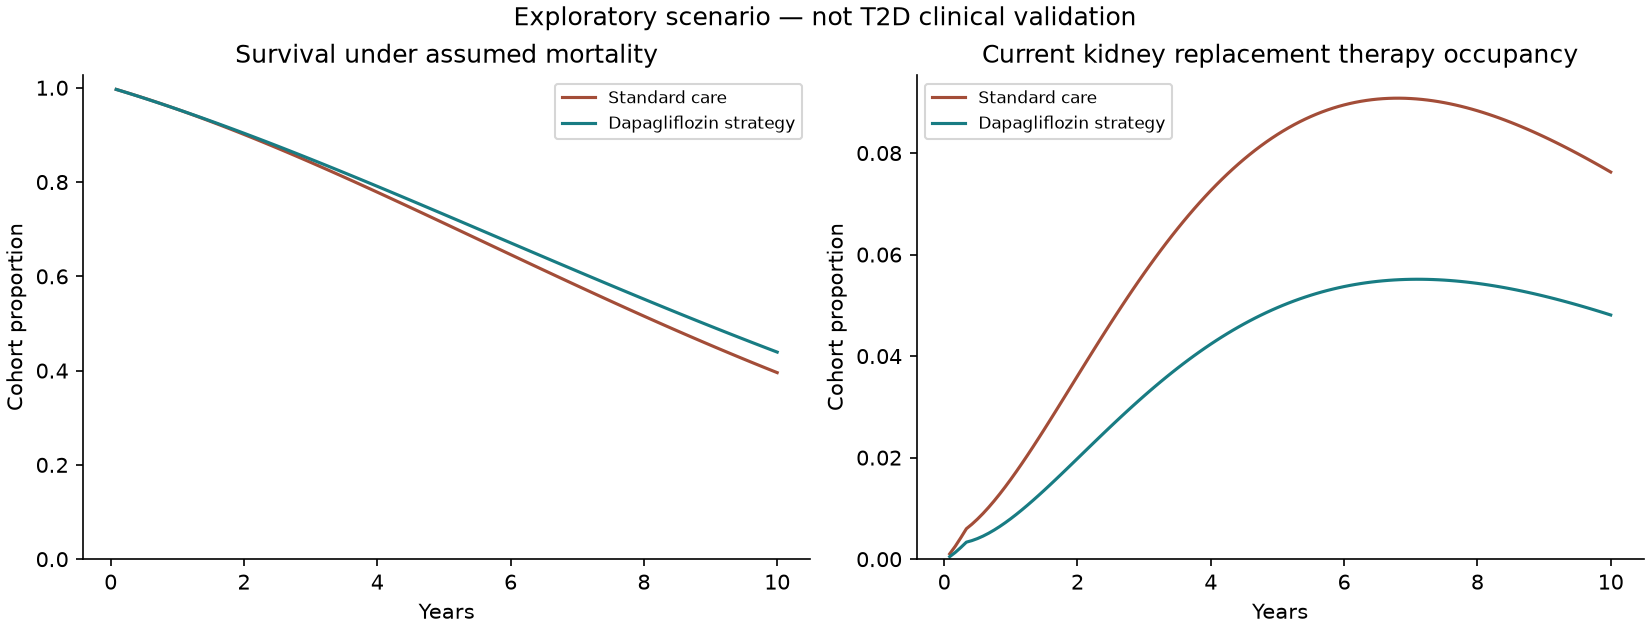
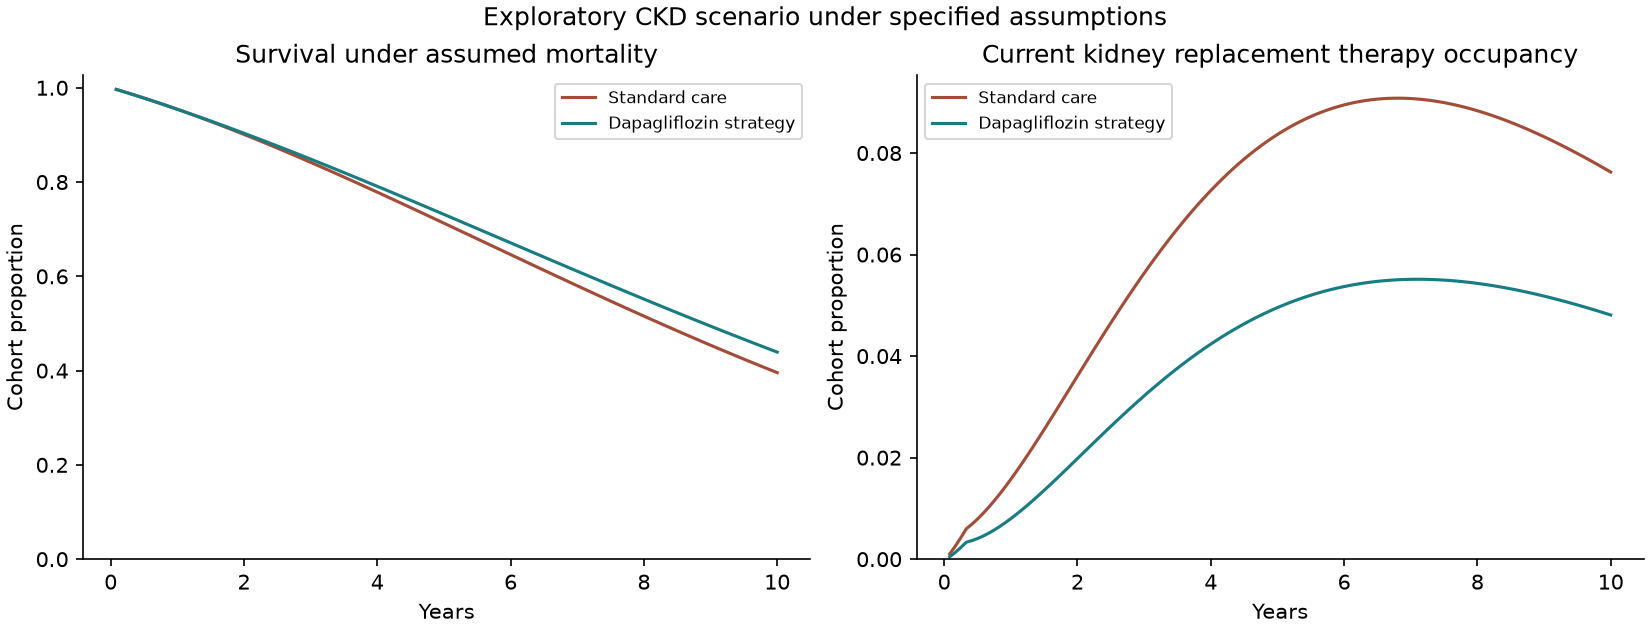
Present model scope in concise English and preserve research assumptions

Changed region(s): [[0.2782, 0.0, 0.7109, 0.0603]]

diff --git a/model/reporting.py b/model/reporting.py
@@ -15,7 +15,7 @@ def plots(out,r,tr,bia,sens,draws,ceac,demo,summary):
         ax[1].plot(f.month/12,f.Dialysis+f.Transplant,label=label,color=color)
     for a in ax:a.set_xlabel('Years');a.set_ylabel('Cohort proportion');a.set_ylim(bottom=0);a.legend(fontsize=8)
     ax[0].set_title('Survival under assumed mortality');ax[1].set_title('Current kidney replacement therapy occupancy')
-    fig.suptitle('Exploratory scenario — not T2D clinical validation',fontsize=12)
+    fig.suptitle('Exploratory CKD scenario under specified assumptions',fontsize=12)
     fig.savefig(out/'economic-trajectories.png');plt.close(fig)
     b=pd.DataFrame(bia);fig,ax=plt.subplots(figsize=(8,4.4),layout='constrained');x=np.arange(3)
     ax.bar(x-.22,b.incremental_drug/1e6,.22,label='Added drug cost',color='#298a91')
@@ -52,7 +52,7 @@ def write_reports(out,cfg,r,bia,sens,demo,summary,ceac,audit):
     rows='\n'.join(f"| {x['year']} | {money(x['incremental_drug'])} | {money(x['incremental_medical'])} | {money(x['incremental_total'])} | ${x['pmpm']:.3f} |" for x in bia)
     en=f'''# Dapagliflozin in CKD economic and causal methods project
 
-**Completed computational project; exploratory economic scenarios and synthetic methods validation. Not a validated T2D or Medicare decision model.** Evidence review 11 October 2026. The reference horizon is 10 years; age-100 extrapolation is a sensitivity scenario only.
+**Exploratory cost-effectiveness and budget-impact scenarios with a separate synthetic causal-methods study.** Evidence review 11 October 2026. The reference horizon is 10 years; age-100 extrapolation is a sensitivity scenario only.
 
 ## Decision and economic output
 
@@ -60,7 +60,7 @@ Dapagliflozin 10 mg daily plus standard care versus standard care without an SGL
 
 Reference incremental cost: {money(r['delta_cost'])}; incremental QALYs: {r['delta_qaly']:.6f}; classification: {r['classification']}; ICER: {ic}; incremental NMB at $100,000/QALY: {money(r['nmb_at_100k'])}. Conditional daily drug-price threshold: ${r['daily_price_threshold_at_100k']:.4f}.
 
-These figures must be read with the scenario register: mixed-population renal matrices were not calibrated to a T2D-specific endpoint; stage mortality and age extrapolation are assumptions, utilities use a transferred UK tariff, and spending uses adjusted US proxies. Full healthcare-sector and actual insurer net costs are not estimated.
+These figures must be read with the scenario register: renal matrices are transferred from a mixed diabetes-status population; stage mortality and age extrapolation are assumptions, utilities use a transferred UK tariff, and spending uses adjusted US proxies. Full healthcare-sector and actual insurer net costs are not estimated.
 
 ![Modelled survival and kidney replacement therapy](economic-trajectories.png)
 
@@ -86,12 +86,12 @@ Bootstrap samples with complete censoring in a treatment-stratum cell are also u
 
 ## Validation and limits
 
-Independent discounted cashflow recomputation agrees within1e-6USD; matrix mass conservation, absorbing death, identity scenarios, analytic survival, no-treatment budget, open-population accounting and SQL exclusions are tested. These are computational checks, not clinical validation. No calibration to the DAPA-CKD composite is claimed because stage aggregates cannot identify its sustained decline and adjudicated death components. The lifetime scenario is not evidence of valid extrapolation.
+Independent discounted cashflow recomputation agrees within1e-6USD; matrix mass conservation, absorbing death, identity scenarios, analytic survival, no-treatment budget, open-population accounting and SQL exclusions are tested. These checks assess computational implementation and accounting. Stage aggregates cannot identify the sustained decline and adjudicated death components of the DAPA-CKD composite. The age-100 scenario depends on the stated extrapolation assumptions.
 
 Public source tables are preserved separately from normalization and assumptions. PSA samples selected subjective distributions; its acceptance curve is conditional on those choices, with no claim to a recovered trial joint distribution. No separate HF benefit, transplant incident cost, or observed adverse-event effect is claimed. Source totals include mixed medical/pharmacy components; an assumed20% pharmacy subtraction and3% annual2023–2026 conversion create background medical proxies. KRT transplant costs represent prevalent averages; dialysis cost is an explicit scenario. Drug MFP is not net payer liability.
 
 ![Uncertainty under selected parameter distributions](uncertainty.png)
 
-See [methods](../METHODS.md), [sources](../SOURCES.md),[parameter register](../parameters/scenario.json),[validation](validation.json) and[run manifest](run-manifest.json). Independent exploratory analysis; not endorsed by the cited agencies or manufacturers.
+See [methods](../METHODS.md), [sources](../SOURCES.md),[parameter register](../parameters/scenario.json),[validation](validation.json) and[run manifest](run-manifest.json).
 '''
     (out/'REPORT.md').write_text(en)

diff --git a/run.py b/run.py
@@ -52,9 +52,9 @@ def main():
         err=abs(independent-r[arm]['cost']);assert err<1e-6
         audit[arm+'_cost_reconciliation_error']=err
     audit.update({'test_suite_passed':True,'sql_cohort_reconstructed':True,'synthetic_estimates_used_as_clinical_inputs':False,
-       'clinical_validation':'NOT established: mixed-population matrices, assumed mortality/transport and cost allocations.',
-       'trial_composite_validation':'Not identified from stage-only aggregates; no counterfeit composite HR calibration.',
-       'lifetime':'Exploratory sensitivity capped at age100; not a validated lifetime forecast.',
+       'clinical_validation':'Exploratory scenario using mixed-population matrices, assumed mortality, evidence transfer and cost allocations.',
+       'trial_composite_validation':'Stage aggregates do not identify sustained-decline or adjudicated-death components of the trial composite.',
+       'lifetime':'Exploratory sensitivity capped at age100, conditional on extrapolated transition and mortality assumptions.',
        'mode':'quick' if args.quick else 'full','psa_draws':len(draws),'monte_carlo_replicates_per_scenario':5 if args.quick else 200})
     reference=ROOT/'parameters/computational-reference.json'
     if reference.exists():

diff --git a/scripts/extract_ckd_transitions.py b/scripts/extract_ckd_transitions.py
@@ -102,7 +102,7 @@ def audit_matrices(matrices):
                                "from_state": state, "sum_as_printed": str(total),
                                "deviation_from_one": str(deviation)})
     return {
-        "status": "source_transcription_checked_not_clinical_model_validation",
+        "status": "source_transcription_integrity_checked",
         "matrices": len(matrices), "probability_cells": 256, "se_cells": 256,
         "rows": len(row_checks),
         "nonunit_rows_as_printed": sum(Decimal(r["deviation_from_one"]) != 0 for r in row_checks),
@@ -116,7 +116,7 @@ def audit_matrices(matrices):
 def extract(raw):
     matrices = extract_matrices(tables_from_docx(raw))
     evidence = {
-        "use_status": "source_reference_only_not_approved_for_target_CEA",
+        "use_status": "published_source_reference",
         "citation": "McEwan et al. Clinical Kidney Journal 2024;17(2):sfae025. Supplement Tables S3 and S4.",
         "article_url": PAPER_URL, "download_url": SOURCE_URL,
         "source_filename": SOURCE_FILE, "source_sha256": SOURCE_SHA256,

diff --git a/tests/test_transitions.py b/tests/test_transitions.py
@@ -1,4 +1,4 @@
-"""Input-integrity tests; not clinical/economic model validation."""
+"""Input-integrity tests for the published transition reference."""
 import copy
 import importlib.util
 import json
@@ -19,7 +19,7 @@ class TransitionIntegrityTests(unittest.TestCase):
     def test_reference_audit_and_scope(self):
         self.assertEqual(module.audit_matrices(self.matrices), json.loads((ROOT / "results/transition-input-audit.json").read_text()))
         self.assertFalse(self.data["mortality_included"])
-        self.assertEqual(self.data["use_status"], "source_reference_only_not_approved_for_target_CEA")
+        self.assertEqual(self.data["use_status"], "published_source_reference")
 
     def test_rounding_differences_are_preserved(self):
         before = copy.deepcopy(self.matrices)

diff --git a/model/claims.py b/model/claims.py
@@ -109,7 +109,7 @@ def simulate_methods(repetitions=200,n=2500,bootstrap=100,seed=20261011):
     return records,summaries
 
 def make_database(path,df):
-    """Flat toy code sets and labs are explicit; not validated clinical phenotypes."""
+    """Explicit toy code sets and linked labs for synthetic method evaluation."""
     conn=sqlite3.connect(path)
     for name in ['enrollment','diagnoses','labs','fills','events']:
         conn.execute(f'DROP TABLE IF EXISTS {name}')

diff --git a/METHODS.md b/METHODS.md
@@ -2,7 +2,7 @@
 
 ## Scope and status
 
-A completed computational scenario analysis of dapagliflozin 10mg daily plus standard care versus standard care without an SGLT2 inhibitor. Reference horizon 10 years; lifetime to age 100 is an exploratory sensitivity, not a clinically validated forecast. The hypothetical target is T2D with albuminuric CKD, eGFR25–75 and UACR200–5000, no baseline KRT. Stage-only public inputs do not preserve individual lab trajectories or validate transport to this population. CKD with T2D is not automatically proven diabetic nephropathy.
+A completed computational scenario analysis of dapagliflozin 10mg daily plus standard care versus standard care without an SGLT2 inhibitor. Reference horizon 10 years; lifetime to age 100 is an exploratory sensitivity, conditional on the assumed mortality and renal progression beyond the observed evidence. The hypothetical target is T2D with albuminuric CKD, eGFR25–75 and UACR200–5000, no baseline KRT. Stage-only public inputs do not preserve individual lab trajectories or validate transport to this population. CKD with T2D is not automatically proven diabetic nephropathy.
 
 The economic contrast does not imply withholding SGLT2 inhibitors is optimal contemporary care. The synthetic active-comparator module has a different estimand and supplies no clinical treatment effects to the economic model.
 
@@ -10,7 +10,7 @@ The economic contrast does not imply withholding SGLT2 inhibitors is optimal con
 
 Original CMS price rows and CKJ supplement S3/S4 probabilities/SEs remain unchanged in their evidence JSON files. `scenario.json` defines every operational setting and explicitly marks mortality, initial mix, inflation, cost allocation, eligibility, uptake and transport assumptions. [Sources](SOURCES.md) contains sources and applicability decisions.
 
-The reference economic result is conditional, not an approved clinical base case. Its restricted cost perspective includes a constructed background medical-spending proxy and incremental drug cost, omitting common background pharmacy costs; it is neither full US healthcare-sector cost nor actual Medicare Advantage net liability. No simulated individual-level information is taken from real patients.
+The reference economic result is conditional on the specified scenario inputs. Its restricted cost perspective includes a constructed background medical-spending proxy and incremental drug cost, omitting common background pharmacy costs; it is neither full US healthcare-sector cost nor actual Medicare Advantage net liability. No simulated individual-level information is taken from real patients.
 
 ## Monthly economic state model
 
@@ -37,7 +37,7 @@ A common utility shift and mortality/cost multipliers are scenario settings. No 
 
 Outputs: discounted costs, life-years, QALYs, incremental costs/QALYs, ICER when appropriate, dominance classification, and net monetary benefit `WTP*delta_QALY-delta_cost`. The 100,000 USD/QALY benchmark is illustrative. The drug-price threshold solves NMB=0 with exposure and clinical transitions held fixed. Small/zero or negative QALY increments do not produce a misleading headline ratio.
 
-Thirty-two deterministic settings include 3/5/10 year and age 100 horizons, discount 0/5%, price, mortality, medical cost, inflation, utility, source-effect retention 0/50/100%, slow renal movements,30 month effect cessation, treatment cessation, additional dropout, early phase boundary, rounding and age/stage composition. Stage composition scenarios are not validated subgroup treatment effects.
+Thirty-two deterministic settings include 3/5/10 year and age 100 horizons, discount 0/5%, price, mortality, medical cost, inflation, utility, source-effect retention 0/50/100%, slow renal movements,30 month effect cessation, treatment cessation, additional dropout, early phase boundary, rounding and age/stage composition. Stage-composition scenarios vary the starting cohort while retaining the specified treatment-effect assumptions.
 
 The 1,000-draw scenario PSA uses seed 20261011: shared lognormal cost multiplier CV 20%, shared lognormal mortality multiplier CV 30% (means 1), a common normal utility shift SD 0.03 clipped to 0–1, drug price Uniform 0.5–1.5 times reference, and retention Uniform 0–1 of the published arm-matrix contrast. Conditional on other inputs these draws are independent; shared shifts impose perfect within-domain correlation across stages. These are chosen uncertainty distributions, not empirical posteriors. Source matrices remain fixed; marginal rounded SEs cannot recover their joint covariance. The acceptability curve reports the fraction of these draws with positive NMB and binomial Monte Carlo SE.
 
@@ -45,7 +45,7 @@ The 1,000-draw scenario PSA uses seed 20261011: shared lognormal cost multiplier
 
 The fixed plan size is 100,000 total members. Initial eligible cohort 1,000 with 20% existing users;20new eligible members enter monthly from month two. These are design assumptions, not NHANES prevalence estimates. Existing members start at 65; new entrants enter at 65. Current targets 20/20/20% and expanded targets 30/45/60% refer to pre-KRT treatment shares. Only never-treated G2–G4 members can start; the G4 eligible fraction is assumed 1/3 because eGFR25–29 cannot be recovered from the broad stage. Retain unreachable-target information in monthly outputs. Additional stops 10%/year are permanent, plan exits 5%/year, both converted to monthly conditional probabilities. Death precedes surviving-member exit, avoiding double counting.
 
-All BIA groups, including new starts, use late renal matrices as a prevalent-population steady-response approximation. Early dynamics are modeled in CEA only. This preserves the zero-effect counterfactual when treatment targets differ; a zero arm contrast cannot generate medical savings merely by assigning a different phase. Drug and medical payment shares are explicit settings, reference 100%. They do not represent verified plan liability.
+All BIA groups, including new starts, use late renal matrices as a prevalent-population steady-response approximation. Early dynamics are modeled in CEA only. This preserves the zero-effect counterfactual when treatment targets differ; a zero arm contrast cannot generate medical savings merely by assigning a different phase. Drug and medical payment shares are explicit settings, reference 100%. They are hypothetical payment-allocation settings rather than observed plan liability.
 
 Apply uptake at cycle start, mortality/renal movements/exits during the cycle, additional stops at cycle end; use midpoint exposure and costs. Report fractional expected people, distinct new starts (no restarts), treatment-months, entrants, deaths, exits, eligible populations, drug/medical totals and incremental budgets. PMPM denominator is 100,000*12 per year. A cost-per-additional-treated-year measure uses incremental exposure, not an incorrectly summed headcount. No budget discounting; hold 2026 price constant as a stated scenario, despite known separate 2027 MFP rows. Fourteen budget settings cover uptake, prices, population, entry/exit, discontinuation, eligibility and payment allocation.
 
@@ -67,4 +67,4 @@ Primary demonstration n 4,000 with 300 bootstrap resamples; four settings each h
 
 Tests cover source fingerprints/rounding, mass conservation, absorbing death, closed-form survival and identity cases, zero-effect cost decomposition, discounting, dropout, zero-treatment/identical-strategy budgets, independent annual population accounting, SQL reconstruction, early loss retention, reproducibility, balance, no-overlap detection and large-sample known-truth recovery. Independently recompute discounted costs from saved traces. A computational reference checks repeatability; changing it requires reviewing inputs, not silently accepting drift.
 
-Clinical validation has not been established. The trial composite cannot be reconstructed from stage-only aggregates, and mortality/transport are not fitted to T2D outcomes. External risk-group costs and different trial endpoints are contextual references only. Research-grade application needs a compatible mortality/transition model, US utilities, verified payer cost allocations, event costs without overlap, and endpoint-aligned clinical calibration. These evidence requirements cannot be satisfied merely by running more tests.
+Stage-only aggregates cannot reconstruct the trial composite, and the mortality and transport settings are scenario assumptions rather than T2D outcome estimates. External risk-group costs and different trial endpoints are contextual references only. Research-grade application needs a compatible mortality/transition model, US utilities, verified payer cost allocations, event costs without overlap, and endpoint-aligned clinical calibration. These evidence requirements cannot be satisfied merely by running more tests.

diff --git a/results/REPORT.md b/results/REPORT.md
@@ -1,6 +1,6 @@
 # Dapagliflozin in CKD economic and causal methods project
 
-**Completed computational project; exploratory economic scenarios and synthetic methods validation. Not a validated T2D or Medicare decision model.** Evidence review 11 October 2026. The reference horizon is 10 years; age-100 extrapolation is a sensitivity scenario only.
+**Exploratory cost-effectiveness and budget-impact scenarios with a separate synthetic causal-methods study.** Evidence review 11 October 2026. The reference horizon is 10 years; age-100 extrapolation is a sensitivity scenario only.
 
 ## Decision and economic output
 
@@ -8,7 +8,7 @@ Dapagliflozin 10 mg daily plus standard care versus standard care without an SGL
 
 Reference incremental cost: $6,024; incremental QALYs: 0.142950; classification: more effective, more costly; ICER: $42,143/QALY; incremental NMB at $100,000/QALY: $8,271. Conditional daily drug-price threshold: $9.7702.
 
-These figures must be read with the scenario register: mixed-population renal matrices were not calibrated to a T2D-specific endpoint; stage mortality and age extrapolation are assumptions, utilities use a transferred UK tariff, and spending uses adjusted US proxies. Full healthcare-sector and actual insurer net costs are not estimated.
+These figures must be read with the scenario register: renal matrices are transferred from a mixed diabetes-status population; stage mortality and age extrapolation are assumptions, utilities use a transferred UK tariff, and spending uses adjusted US proxies. Full healthcare-sector and actual insurer net costs are not estimated.
 
 ![Modelled survival and kidney replacement therapy](economic-trajectories.png)
 
@@ -36,10 +36,10 @@ Bootstrap samples with complete censoring in a treatment-stratum cell are also u
 
 ## Validation and limits
 
-Independent discounted cashflow recomputation agrees within1e-6USD; matrix mass conservation, absorbing death, identity scenarios, analytic survival, no-treatment budget, open-population accounting and SQL exclusions are tested. These are computational checks, not clinical validation. No calibration to the DAPA-CKD composite is claimed because stage aggregates cannot identify its sustained decline and adjudicated death components. The lifetime scenario is not evidence of valid extrapolation.
+Independent discounted cashflow recomputation agrees within1e-6USD; matrix mass conservation, absorbing death, identity scenarios, analytic survival, no-treatment budget, open-population accounting and SQL exclusions are tested. These checks assess computational implementation and accounting. Stage aggregates cannot identify the sustained decline and adjudicated death components of the DAPA-CKD composite. The age-100 scenario depends on the stated extrapolation assumptions.
 
 Public source tables are preserved separately from normalization and assumptions. PSA samples selected subjective distributions; its acceptance curve is conditional on those choices, with no claim to a recovered trial joint distribution. No separate HF benefit, transplant incident cost, or observed adverse-event effect is claimed. Source totals include mixed medical/pharmacy components; an assumed20% pharmacy subtraction and3% annual2023–2026 conversion create background medical proxies. KRT transplant costs represent prevalent averages; dialysis cost is an explicit scenario. Drug MFP is not net payer liability.
 
 ![Uncertainty under selected parameter distributions](uncertainty.png)
 
-See [methods](../METHODS.md), [sources](../SOURCES.md),[parameter register](../parameters/scenario.json),[validation](validation.json) and[run manifest](run-manifest.json). Independent exploratory analysis; not endorsed by the cited agencies or manufacturers.
+See [methods](../METHODS.md), [sources](../SOURCES.md),[parameter register](../parameters/scenario.json),[validation](validation.json) and[run manifest](run-manifest.json).

diff --git a/SOURCES.md b/SOURCES.md
@@ -21,11 +21,11 @@ The original supplement is attributed to McEwan and colleagues, published under 
 | [USRDS CKD spending, Table 6.3](https://usrds-adr.niddk.nih.gov/2025/chronic-kidney-disease/6-healthcare-expenditures-for-persons-with-ckd#table-6-3-section) | Stage-group spending for older Medicare FFS beneficiaries with diabetes | Diabetes is not restricted to T2D; combined stage groups must be mapped to model states |
 | [USRDS transplant spending, Figure 9.11d](https://usrds-adr.niddk.nih.gov/2025/end-stage-renal-disease/9-healthcare-expenditures-for-persons-with-esrd#figure-9-11d-section) | Annual prevalent transplant spending | Not first-year transplant cost or a diabetes-specific estimate |
 
-The USRDS edition is 2025; the spending observations used are from 2023. [Cost-source notes](parameters/us-cost-source.json) record manually transcribed values and transformations. These webpage transcriptions are not automated, hash-verified extracts. CMS product/date selection is independently reproducible with the [price extractor](scripts/extract_cms_price.py); its [evidence register](parameters/cms-price-evidence.json) retains the raw source row and fingerprint.
+The USRDS edition is 2025; the spending observations used are from 2023. [Cost-source notes](parameters/us-cost-source.json) record manually transcribed values and transformations. CMS product/date selection is independently reproducible with the [price extractor](scripts/extract_cms_price.py); its [evidence register](parameters/cms-price-evidence.json) retains the raw source row and fingerprint.
 
 ## Assumptions that remain in the model
 
-The [scenario register](parameters/scenario.json) contains the complete numerical settings and their explanations. Stage-specific mortality and age progression, initial age/stage composition, dialysis spending, pharmacy subtraction, inflation, treatment persistence, uptake and plan membership are scenario assumptions. Utilities and renal transitions are transferred from external populations. No T2D-specific clinical calibration is claimed.
+The [scenario register](parameters/scenario.json) contains the complete numerical settings and their explanations. Stage-specific mortality and age progression, initial age/stage composition, dialysis spending, pharmacy subtraction, inflation, treatment persistence, uptake and plan membership are scenario assumptions. Utilities and renal transitions are transferred from external populations. Their applicability to the hypothetical T2D population is an assumption examined through scenario analysis.
 
 The restricted cost perspective combines a background medical-spending proxy with incremental study-drug cost. It does not estimate comprehensive healthcare-sector costs or actual insurer net liability. An assumed pharmacy share is removed from source totals; common background pharmacy costs are omitted. The transplant state uses a prevalent average, and there are no separate hospitalisation-for-heart-failure savings or observed adverse-event effects. These restrictions avoid asserting event benefits that have not been modelled.
 

diff --git a/README.md b/README.md
@@ -31,9 +31,9 @@ The saved full run includes **1,000 probabilistic sensitivity-analysis draws** a
 
 ## Scope
 
-The economic outputs are exploratory scenarios. Published renal transitions come from a mixed diabetes-status population; mortality, parts of costing, initial population composition and transfer to the target setting remain assumptions. The model has not been clinically calibrated or externally validated for a US diabetes population. Price inputs are Medicare negotiated-price references, not observed net payer costs.
+The economic outputs are exploratory scenarios. Published renal transitions come from a mixed diabetes-status population; mortality, parts of costing, initial population composition and transfer to the target setting remain assumptions. Interpretation for a specific US diabetes population depends on the applicability of these transferred inputs and assumed risks. Price inputs are Medicare negotiated-price references, not observed net payer costs.
 
-The synthetic comparison uses dapagliflozin versus sitagliptin, while the economic model compares dapagliflozin plus standard care with standard care. These comparisons are distinct. Artificial records and simplified clinical labels are not real claims evidence or validated clinical phenotypes.
+The synthetic comparison uses dapagliflozin versus sitagliptin, while the economic model compares dapagliflozin plus standard care with standard care. These comparisons are distinct. Artificial records and simplified clinical labels are generated for estimator evaluation rather than patient care or clinical effect estimation.
 
 ## Repository
 
